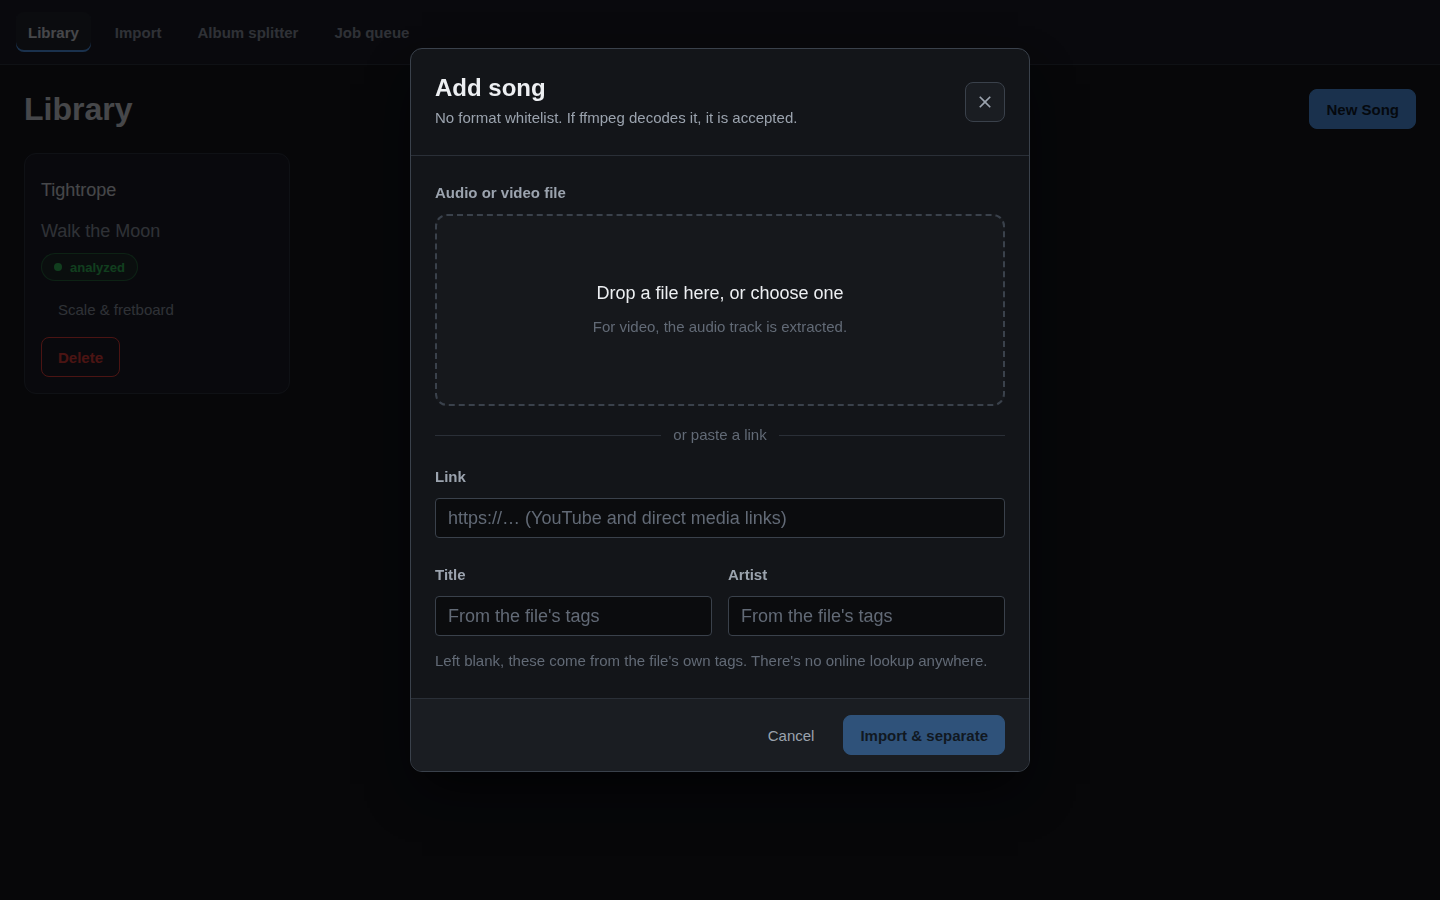
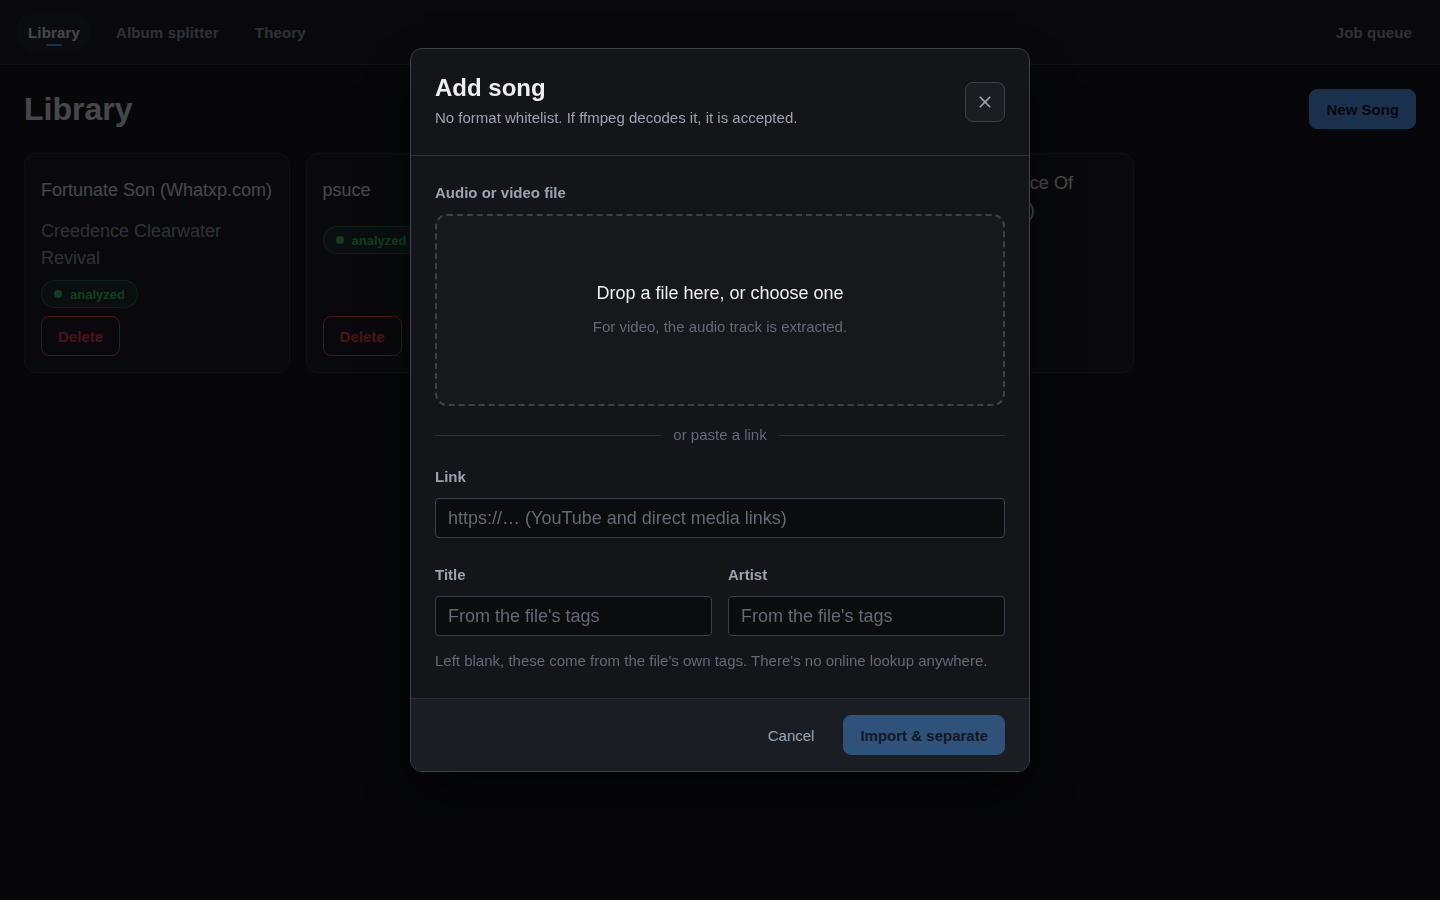
feat(ui): park Job queue at the right end of the navbar

diff --git a/frontend/src/app/AppShell.tsx b/frontend/src/app/AppShell.tsx
@@ -10,8 +10,9 @@ import { PulseSlotContext } from './pulseSlot';
 const NAV = [
   { to: '/', label: 'Library' },
   { to: '/splitter', label: 'Album splitter' },
-  { to: '/jobs', label: 'Job queue' },
   { to: '/theory', label: 'Theory' },
+  // Operational, not a place you practise in: parked at the far end of the bar.
+  { to: '/jobs', label: 'Job queue', far: true },
 ];
 
 export function AppShell() {
@@ -35,7 +36,7 @@ export function AppShell() {
           <Link
             key={item.to}
             to={item.to}
-            className={active(item.to) ? styles.active : styles.link}
+            className={`${active(item.to) ? styles.active : styles.link}${item.far ? ` ${styles.far}` : ''}`}
             aria-current={active(item.to) ? 'page' : undefined}
           >
             {item.label}

diff --git a/frontend/src/app/AppShell.module.css b/frontend/src/app/AppShell.module.css
@@ -33,6 +33,10 @@
     color var(--ds-m-flip) var(--ds-ease);
 }
 
+.far {
+  margin-left: auto;
+}
+
 .link:hover {
   background: var(--ds-raised);
   color: var(--ds-text);
